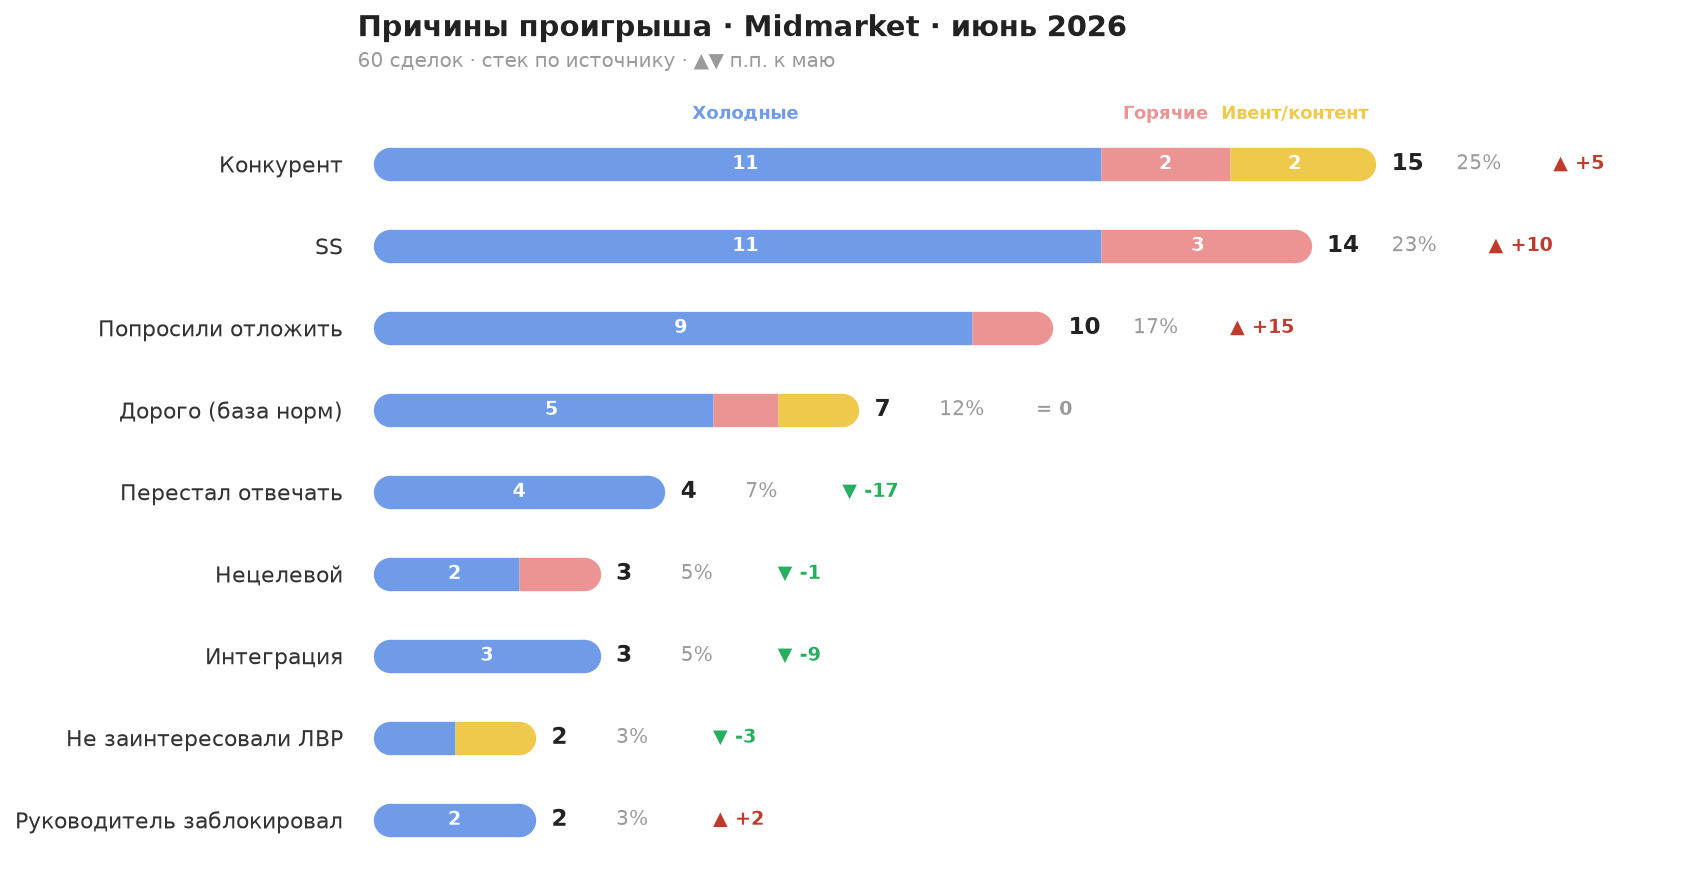
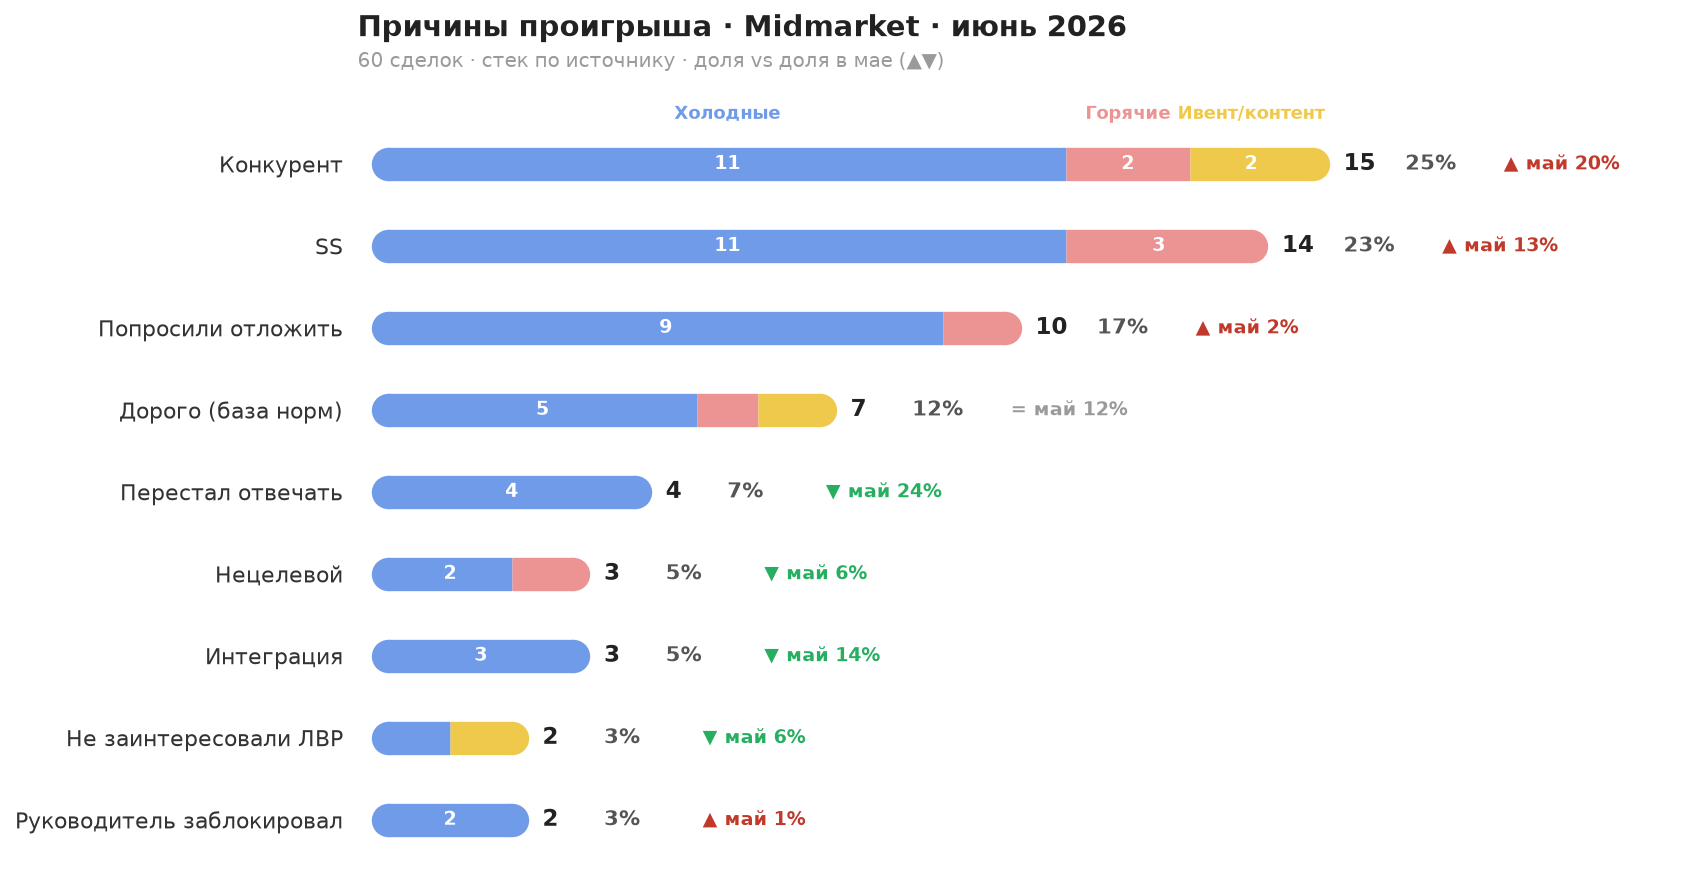
Variant C: show delta as explicit shares (июнь % vs май %), count-independent

diff --git a/scripts/make_digest_chart_v2.py b/scripts/make_digest_chart_v2.py
@@ -100,15 +100,16 @@ def variant_c():
             ax.plot([left,left+v],[i,i],lw=LW,solid_capstyle="butt",color=COL[s],zorder=3)
             if v>=2: ax.text(left+v/2,i,str(v),va="center",ha="center",fontsize=9,color="white",fontweight="bold",zorder=4)
             left+=v
-        # total + %
+        # total + current share %
+        jsh=round(100*t/N); msh=round(100*mc.get(c,0)/mtot)
         ax.text(t+0.5,i,f"{t}",va="center",ha="left",fontsize=11,fontweight="bold",color="#222",zorder=4)
-        ax.text(t+1.5,i,f"{round(100*t/N)}%",va="center",ha="left",fontsize=9.5,color="#9a9a9a",zorder=4)
-        # delta
-        d=delta_pp(c)
-        if d>0: dt,dc=f"▲ +{d}","#c0392b"
-        elif d<0: dt,dc=f"▼ {d}","#27ae60"
-        else: dt,dc="= 0","#9a9a9a"
-        ax.text(t+3.0,i,dt,va="center",ha="left",fontsize=9,color=dc,fontweight="bold",zorder=4)
+        ax.text(t+1.5,i,f"{jsh}%",va="center",ha="left",fontsize=10,fontweight="bold",color="#555",zorder=4)
+        # vs May share (both shares shown -> count-independent)
+        d=jsh-msh
+        if d>0: ar,dc="▲","#c0392b"
+        elif d<0: ar,dc="▼","#27ae60"
+        else: ar,dc="=","#9a9a9a"
+        ax.text(t+3.1,i,f"{ar} май {msh}%",va="center",ha="left",fontsize=9,color=dc,fontweight="bold",zorder=4)
     # inline source labels above top bar
     top=len(cats)-1; l=0
     for s in order:
@@ -116,10 +117,10 @@ def variant_c():
         if v>0: ax.text(l+v/2,top+0.5,s,ha="center",va="bottom",fontsize=8.5,color=COL[s],fontweight="bold")
         l+=v
     ax.set_yticks(range(len(cats))); ax.set_yticklabels([lbl(c) for c in cats],fontsize=10.5,color="#333")
-    ax.set_ylim(-0.6,len(cats)-0.1); ax.set_xlim(-0.5,20); ax.set_xticks([]); ax.tick_params(left=False)
+    ax.set_ylim(-0.6,len(cats)-0.1); ax.set_xlim(-0.5,21); ax.set_xticks([]); ax.tick_params(left=False)
     for s in ax.spines.values(): s.set_visible(False)
     ax.set_title("Причины проигрыша · Midmarket · июнь 2026",fontsize=14,fontweight="bold",color="#222",loc="left",pad=26)
-    ax.annotate("60 сделок · стек по источнику · ▲▼ п.п. к маю",(0,1.03),xycoords="axes fraction",fontsize=9.5,color="#9a9a9a")
+    ax.annotate("60 сделок · стек по источнику · доля vs доля в мае (▲▼)",(0,1.03),xycoords="axes fraction",fontsize=9.5,color="#9a9a9a")
     plt.tight_layout(); plt.savefig("output/june_2026_chart_v2c.png",dpi=150,bbox_inches="tight"); plt.close()
     print("saved v2c")
 variant_c()
